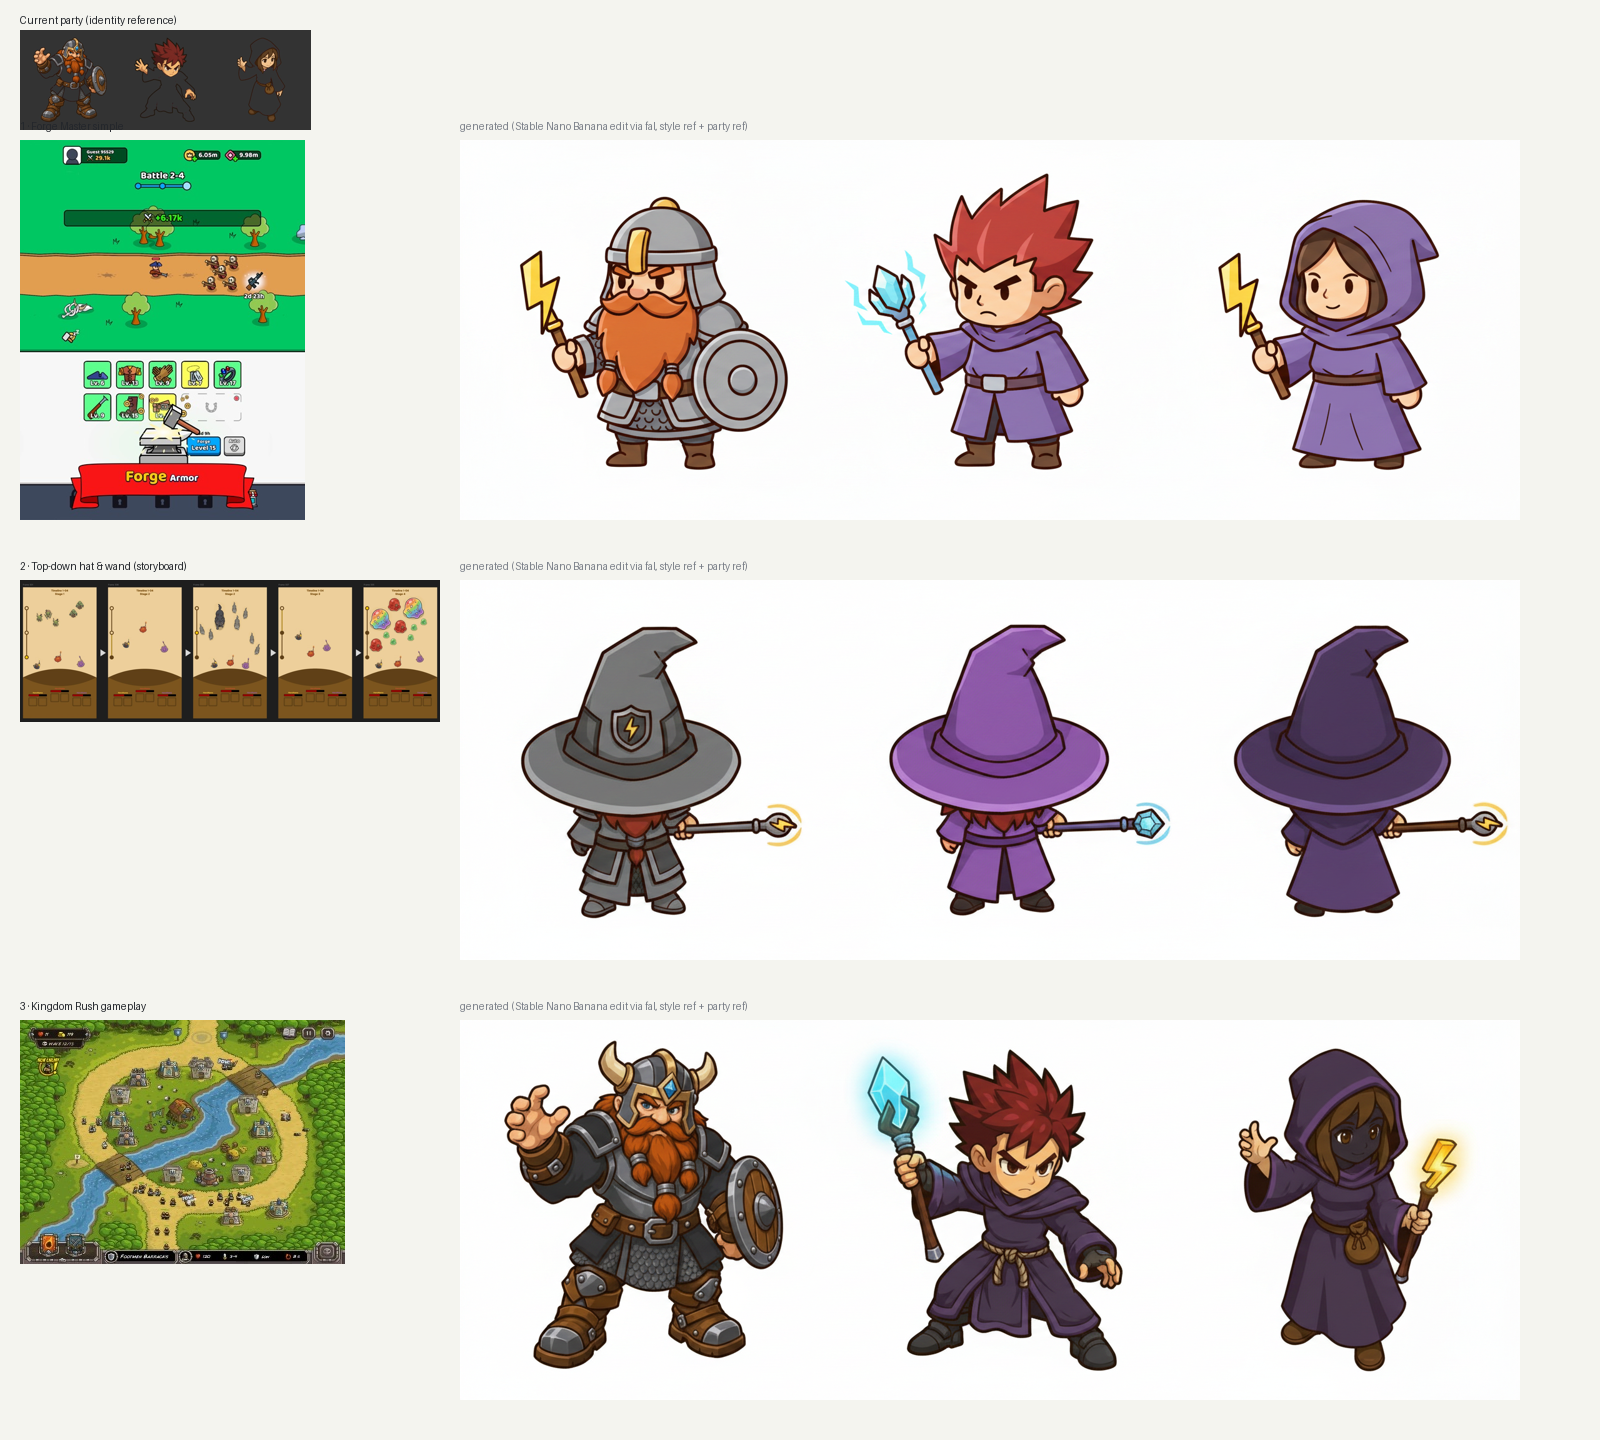
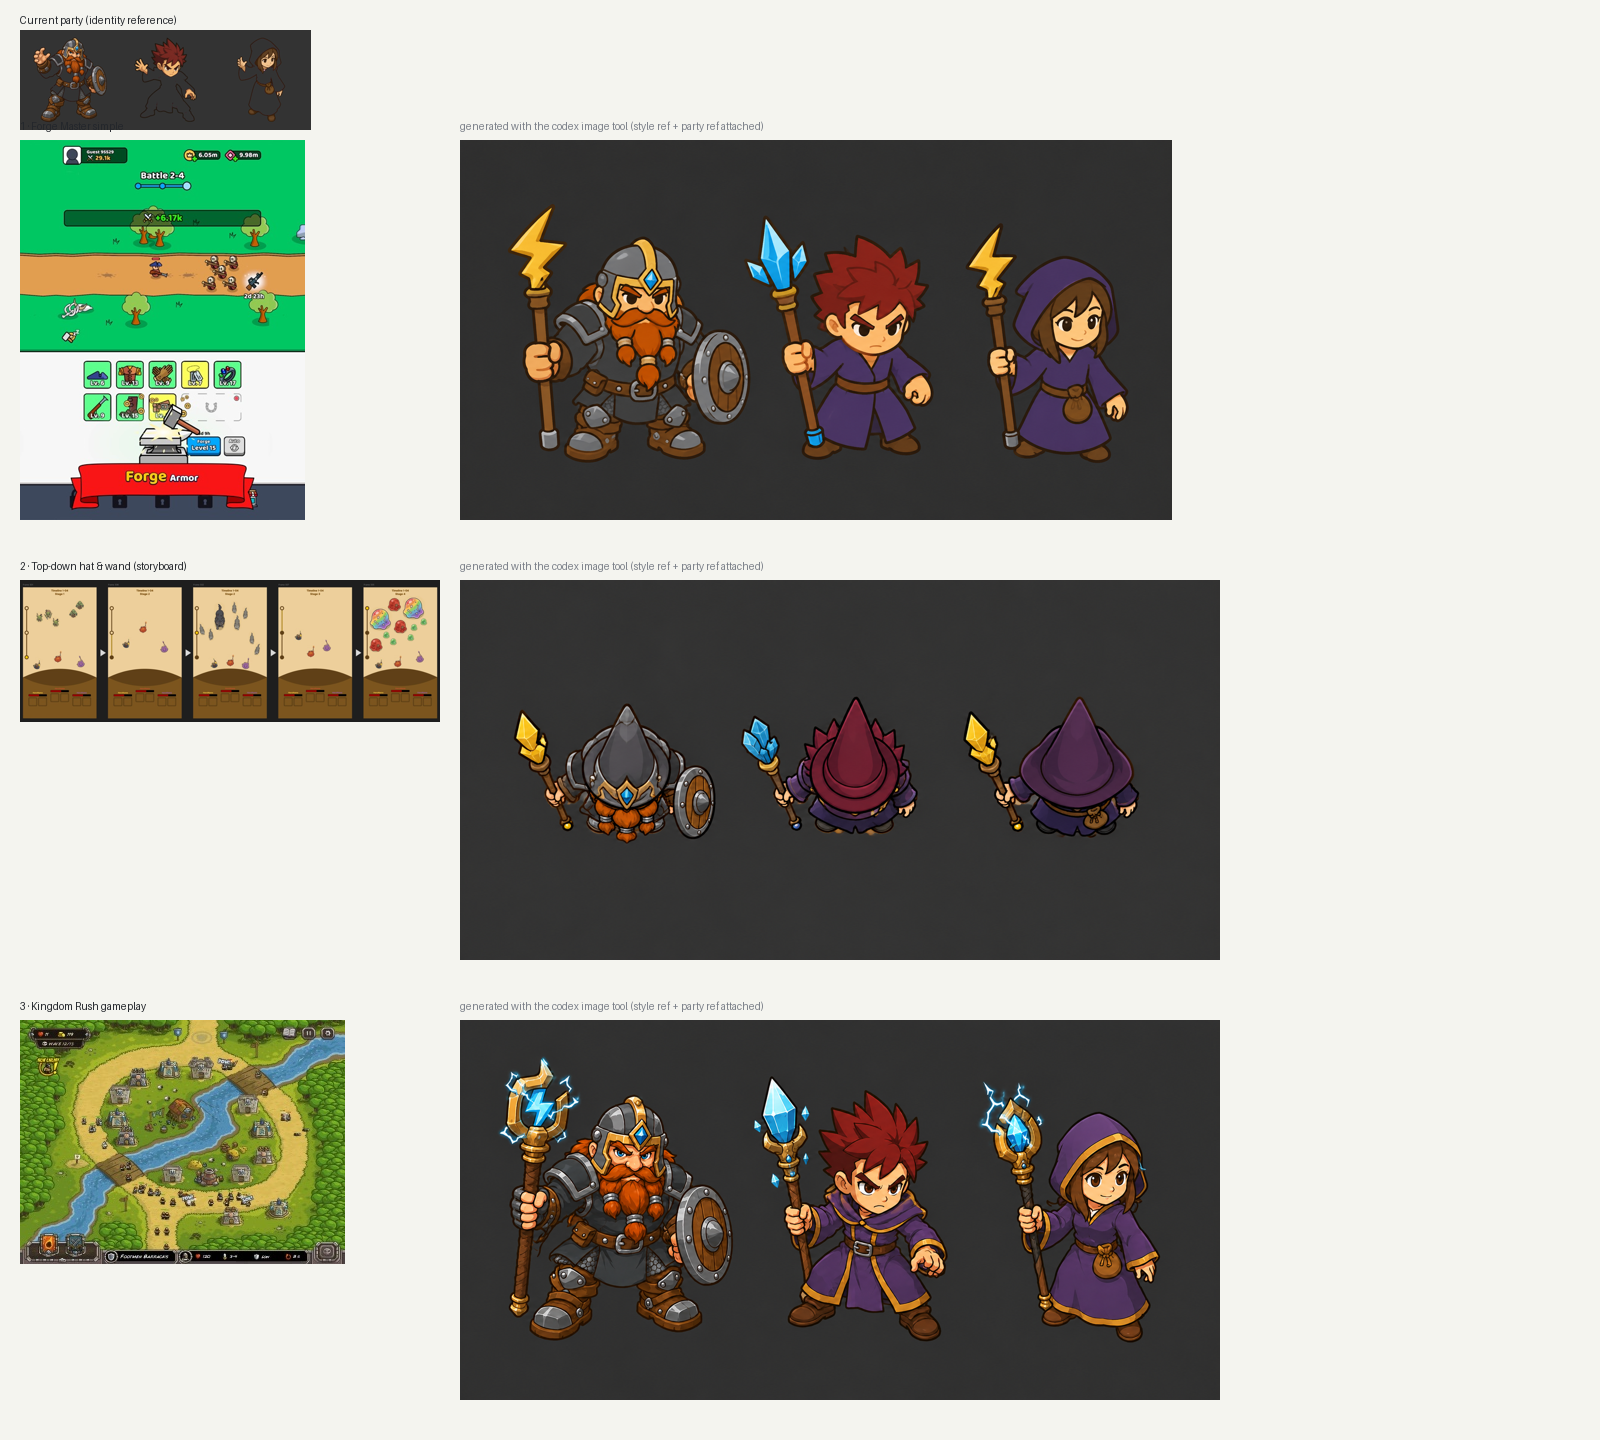
docs(mage_master): character-style sets regenerated with the codex image tool
Claude-Session: https://claude.ai/code/session_012Evt2wtLfv48RDU9LW1SPR

diff --git a/games/mage_master/evidence/2026-09-03-11-character-styles/report.html b/games/mage_master/evidence/2026-09-03-11-character-styles/report.html
@@ -1,0 +1,30 @@
+<!doctype html>
+<html lang="en"><head><meta charset="utf-8"><meta name="viewport" content="width=device-width,initial-scale=1">
+<title>Mage Master — character style pick (codex)</title>
+<style>
+  body{margin:0;padding:20px;background:#f4f4ef;color:#23262b;font:15px/1.5 -apple-system,system-ui,"Helvetica Neue",sans-serif}
+  h1{font-size:22px;margin:0 0 4px} h2{font-size:17px;margin:28px 0 8px} p{margin:6px 0} .muted{color:#7b8089}
+  .row{display:grid;grid-template-columns:minmax(200px,1fr) minmax(300px,2.6fr);gap:14px;align-items:start;background:#fff;border:2px solid #dcded6;border-radius:16px;padding:14px;margin:10px 0}
+  .row img{width:100%;height:auto;display:block;border-radius:10px;background:#eceee7}
+  .cap{font-size:12px;color:#7b8089;margin-top:4px}
+  .ask{background:#fff;border:2px solid #ef4d4d;border-radius:16px;padding:14px;margin-top:22px}
+  .ask b{color:#ef4d4d}
+  ul{margin:6px 0 0 18px;padding:0}
+</style></head><body>
+<h1>Mage Master — three character styles</h1>
+<p class="muted">2026-09-03 · branch <code>feat/mage-master-minimal-ui</code> · nothing is wired into the game; this is a direction pick.</p>
+<p>Each row shows the reference on the left and the generated party (Bastion, Ember, Sage) on the right. All three were generated from the same identity reference (the current sprites) plus the style reference, with the codex image tool (gpt image model), one call per style with both references attached. On a #333333 matte, as the sprite pipeline expects.</p>
+<div class="row"><div><img src="02_ref-0-current-party.jpg" alt="Current party"><div class="cap">Identity reference: the current unit sprites.</div></div><div class="muted" style="align-self:center">The three sets below keep these identities: stout dwarf tank with shield and lightning staff, spiky red-haired warrior mage with an ice staff, hooded support mage with a lightning staff.</div></div>
+
+<h2>1 · Forge Master simple</h2>
+<div class="row"><div><img src="03_ref-1-forge-master.jpg" alt="Forge Master gameplay"><div class="cap">Reference: Forge Master App Store gameplay shot (tiny flat fighters).</div></div><div><img src="06_1-forge-master-style.png" alt="Forge Master style party"><div class="cap">Simplified chibi with flat two-tone shading and clean outlines. Codex kept more detail than Forge Master's vector look; if this direction wins, the next pass pushes flatter.</div></div></div>
+
+<h2>2 · Top-down hat &amp; wand</h2>
+<div class="row"><div><img src="04_ref-2-storyboard.jpeg" alt="Storyboard"><div class="cap">Reference: our storyboard (refs/art/layout-reference.jpeg), the tiny top-down mages.</div></div><div><img src="07_2-topdown-hat-wand-style.png" alt="Top-down style party"><div class="cap">Hat is the silhouette (helmet spike for Bastion), shoulders and shield beneath, staff out past the brim with the element crystal. Matches the storyboard figures; reads at battlefield size.</div></div></div>
+
+<h2>3 · Kingdom Rush gameplay</h2>
+<div class="row"><div><img src="05_ref-3-kingdom-rush.jpg" alt="Kingdom Rush gameplay"><div class="cap">Reference: Kingdom Rush gameplay (Wikipedia; only a 325×244 copy was reachable).</div></div><div><img src="08_3-kingdom-rush-style.png" alt="Kingdom Rush style party"><div class="cap">Chunky three-quarter units, thick outlines, two-step cel shading, ornate staffs. Closest to the current art direction, and every hero holds the right weapon.</div></div></div>
+
+<div class="ask"><b>Ask:</b> reply with 1, 2 or 3. Then I produce the full unit set in that style: the three mages as separate sprites on the matte the composite pipeline expects, and the ten enemies to match.
+<ul><li>1 fits the minimal UI best and costs least to keep consistent.</li><li>2 changes the camera feel (top-down) and would want the enemies and arena redrawn the same way.</li><li>3 is closest to the original art direction (Kingdom Rush warmth) and the current sprites.</li></ul></div>
+</body></html>

diff --git a/games/mage_master/evidence/2026-09-03-11-character-styles/JOURNAL.md b/games/mage_master/evidence/2026-09-03-11-character-styles/JOURNAL.md
@@ -22,3 +22,11 @@ one prompt per style; prompts in the session log). Three calls.
 
 `style-comparison.png` puts each reference beside its result. Nothing is
 wired into the game; this is a direction pick.
+
+## Round 2 — regenerated with codex (Batu: "no use codex please")
+
+`1-…`, `2-…`, `3-…` are now the codex image tool results (`codex exec -i <style ref> -i
+<party ref>`, gpt image model, #333333 matte). The fal Nano Banana versions are kept as
+`fal-*.png` for the record. Codex's Forge Master set is a simplified chibi rather than
+a true flat vector; the Kingdom Rush set fixed the missing staff. Portal: stream
+`mage-master`, second report post.
